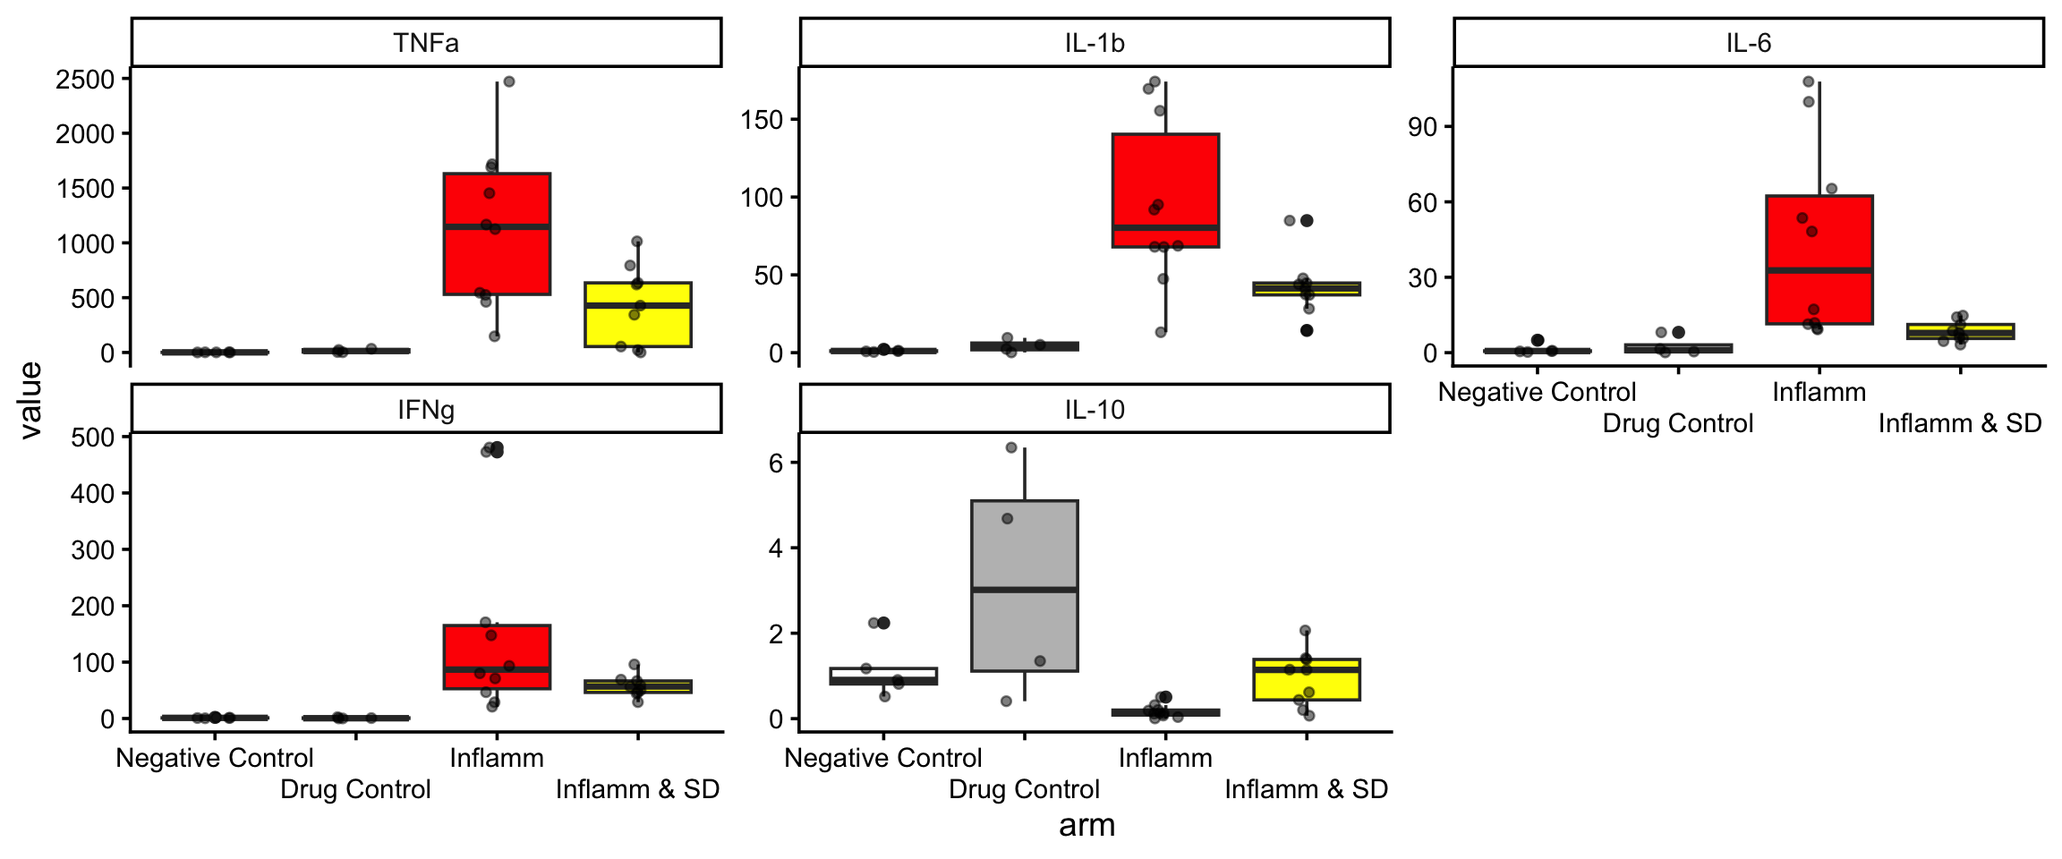
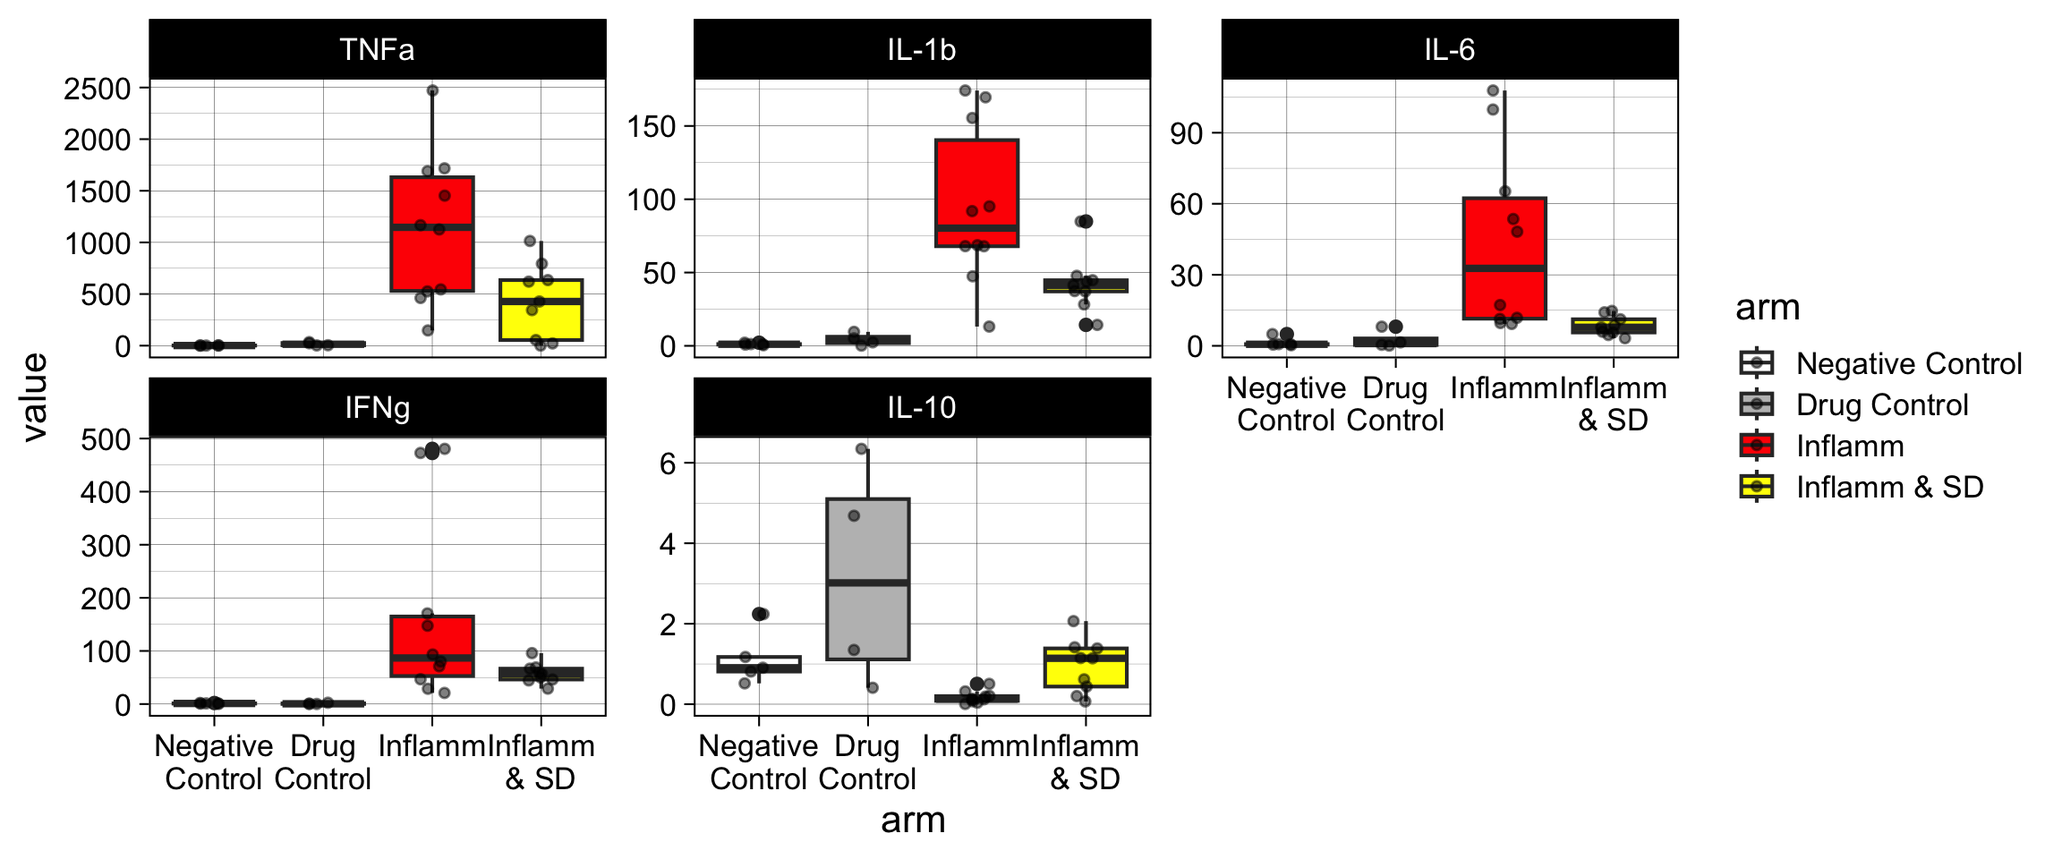
updated LCL plot

diff --git a/SD2301_analysis.html b/SD2301_analysis.html
@@ -128,51 +128,93 @@ The following objects are masked from 'package:stats':
 <div class="cell-output cell-output-stderr">
 <pre><code>here() starts at /Users/peterhiggins/Documents/RCode/SD_2301</code></pre>
 </div>
-<div class="sourceCode cell-code" id="cb7"><pre class="sourceCode r code-with-copy"><code class="sourceCode r"><span id="cb7-1"><a href="#cb7-1" aria-hidden="true" tabindex="-1"></a><span class="fu">library</span>(ggsignif)</span></code><button title="Copy to Clipboard" class="code-copy-button"><i class="bi"></i></button></pre></div>
+<div class="sourceCode cell-code" id="cb7"><pre class="sourceCode r code-with-copy"><code class="sourceCode r"><span id="cb7-1"><a href="#cb7-1" aria-hidden="true" tabindex="-1"></a><span class="fu">library</span>(ggsignif)</span>
+<span id="cb7-2"><a href="#cb7-2" aria-hidden="true" tabindex="-1"></a><span class="fu">library</span>(scales)</span></code><button title="Copy to Clipboard" class="code-copy-button"><i class="bi"></i></button></pre></div>
+<div class="cell-output cell-output-stderr">
+<pre><code>
+Attaching package: 'scales'
+
+The following object is masked from 'package:purrr':
+
+    discard
+
+The following object is masked from 'package:readr':
+
+    col_factor</code></pre>
+</div>
 </div>
 </section>
 <section id="read-in-data" class="level2">
 <h2 class="anchored" data-anchor-id="read-in-data">Read in data</h2>
 <div class="cell">
-<div class="sourceCode cell-code" id="cb8"><pre class="sourceCode r code-with-copy"><code class="sourceCode r"><span id="cb8-1"><a href="#cb8-1" aria-hidden="true" tabindex="-1"></a>df <span class="ot">&lt;-</span> <span class="fu">read_excel</span>(<span class="fu">here</span>(<span class="st">"SD2301_tidy.xlsx"</span>)) <span class="sc">|&gt;</span> </span>
-<span id="cb8-2"><a href="#cb8-2" aria-hidden="true" tabindex="-1"></a>  <span class="fu">select</span>(mice, category, TNF<span class="sc">:</span>STAT3) <span class="sc">|&gt;</span></span>
-<span id="cb8-3"><a href="#cb8-3" aria-hidden="true" tabindex="-1"></a>  <span class="fu">pivot_longer</span>(<span class="at">cols =</span> <span class="sc">!</span><span class="fu">c</span>(mice,category), <span class="at">names_to =</span> <span class="st">"transcript"</span>, <span class="at">values_to =</span> <span class="st">"value"</span>) <span class="sc">|&gt;</span></span>
-<span id="cb8-4"><a href="#cb8-4" aria-hidden="true" tabindex="-1"></a>  <span class="fu">mutate</span>(<span class="at">arm =</span> <span class="fu">case_when</span>(</span>
-<span id="cb8-5"><a href="#cb8-5" aria-hidden="true" tabindex="-1"></a>    category <span class="sc">==</span> <span class="dv">1</span> <span class="sc">~</span> <span class="st">"Negative Control"</span>,</span>
-<span id="cb8-6"><a href="#cb8-6" aria-hidden="true" tabindex="-1"></a>    category <span class="sc">==</span> <span class="dv">2</span> <span class="sc">~</span> <span class="st">"Drug Control"</span>,</span>
-<span id="cb8-7"><a href="#cb8-7" aria-hidden="true" tabindex="-1"></a>    category <span class="sc">==</span> <span class="dv">3</span> <span class="sc">~</span> <span class="st">"Inflamm"</span>,</span>
-<span id="cb8-8"><a href="#cb8-8" aria-hidden="true" tabindex="-1"></a>    category <span class="sc">==</span> <span class="dv">4</span> <span class="sc">~</span> <span class="st">"Inflamm &amp; SD3"</span>,</span>
-<span id="cb8-9"><a href="#cb8-9" aria-hidden="true" tabindex="-1"></a>    category <span class="sc">==</span> <span class="dv">5</span> <span class="sc">~</span> <span class="st">"Inflamm &amp; SD"</span>)) <span class="sc">|&gt;</span> </span>
-<span id="cb8-10"><a href="#cb8-10" aria-hidden="true" tabindex="-1"></a>  <span class="fu">mutate</span>(<span class="at">transcript =</span> <span class="fu">case_when</span>(</span>
-<span id="cb8-11"><a href="#cb8-11" aria-hidden="true" tabindex="-1"></a>    transcript <span class="sc">==</span> <span class="st">"TNF"</span> <span class="sc">~</span> <span class="st">"TNFa"</span>,</span>
-<span id="cb8-12"><a href="#cb8-12" aria-hidden="true" tabindex="-1"></a>    transcript <span class="sc">==</span> <span class="st">"IL1"</span> <span class="sc">~</span> <span class="st">"IL-1b"</span>,</span>
-<span id="cb8-13"><a href="#cb8-13" aria-hidden="true" tabindex="-1"></a>    transcript <span class="sc">==</span> <span class="st">"IL6"</span> <span class="sc">~</span> <span class="st">"IL-6"</span>,</span>
-<span id="cb8-14"><a href="#cb8-14" aria-hidden="true" tabindex="-1"></a>    transcript <span class="sc">==</span> <span class="st">"STAT3"</span> <span class="sc">~</span> <span class="st">"STAT3"</span>,</span>
-<span id="cb8-15"><a href="#cb8-15" aria-hidden="true" tabindex="-1"></a>    transcript <span class="sc">==</span> <span class="st">"TGF"</span> <span class="sc">~</span> <span class="st">"TGFb"</span>,</span>
-<span id="cb8-16"><a href="#cb8-16" aria-hidden="true" tabindex="-1"></a>    transcript <span class="sc">==</span> <span class="st">"INF"</span> <span class="sc">~</span> <span class="st">"IFNg"</span>,</span>
-<span id="cb8-17"><a href="#cb8-17" aria-hidden="true" tabindex="-1"></a>    transcript <span class="sc">==</span> <span class="st">"il10"</span> <span class="sc">~</span> <span class="st">"IL-10"</span>)) <span class="sc">|&gt;</span>  </span>
-<span id="cb8-18"><a href="#cb8-18" aria-hidden="true" tabindex="-1"></a>    <span class="fu">mutate</span>(<span class="at">arm =</span> <span class="fu">ordered</span>(arm, <span class="at">levels =</span> <span class="fu">c</span>(<span class="st">"Negative Control"</span>, <span class="st">"Drug Control"</span>, <span class="st">"Inflamm"</span>, <span class="st">"Inflamm &amp; SD3"</span>, <span class="st">"Inflamm &amp; SD"</span>))) <span class="sc">|&gt;</span> </span>
-<span id="cb8-19"><a href="#cb8-19" aria-hidden="true" tabindex="-1"></a>  <span class="fu">mutate</span>(<span class="at">transcript =</span> <span class="fu">factor</span>(transcript, <span class="at">levels =</span> <span class="fu">c</span>(<span class="st">"TNFa"</span>, <span class="st">"IL-1b"</span>, <span class="st">"IL-6"</span>, <span class="st">"IFNg"</span>, <span class="st">"TGFb"</span>, <span class="st">"STAT3"</span>, <span class="st">'IL-10'</span>))) <span class="sc">|&gt;</span> </span>
-<span id="cb8-20"><a href="#cb8-20" aria-hidden="true" tabindex="-1"></a>  <span class="fu">filter</span>(transcript <span class="sc">!=</span> <span class="st">"TGFb"</span> <span class="sc">&amp;</span> transcript <span class="sc">!=</span> <span class="st">"STAT3"</span>) <span class="sc">|&gt;</span> </span>
-<span id="cb8-21"><a href="#cb8-21" aria-hidden="true" tabindex="-1"></a>  <span class="fu">filter</span>(arm <span class="sc">!=</span> <span class="st">"Inflamm &amp; SD3"</span>) <span class="sc">|&gt;</span></span>
-<span id="cb8-22"><a href="#cb8-22" aria-hidden="true" tabindex="-1"></a>  <span class="fu">filter</span>(<span class="sc">!</span><span class="fu">is.na</span>(value))</span></code><button title="Copy to Clipboard" class="code-copy-button"><i class="bi"></i></button></pre></div>
+<div class="sourceCode cell-code" id="cb9"><pre class="sourceCode r code-with-copy"><code class="sourceCode r"><span id="cb9-1"><a href="#cb9-1" aria-hidden="true" tabindex="-1"></a>df <span class="ot">&lt;-</span> <span class="fu">read_excel</span>(<span class="fu">here</span>(<span class="st">"SD2301_tidy.xlsx"</span>)) <span class="sc">|&gt;</span> </span>
+<span id="cb9-2"><a href="#cb9-2" aria-hidden="true" tabindex="-1"></a>  <span class="fu">select</span>(mice, category, TNF<span class="sc">:</span>STAT3) <span class="sc">|&gt;</span></span>
+<span id="cb9-3"><a href="#cb9-3" aria-hidden="true" tabindex="-1"></a>  <span class="fu">pivot_longer</span>(<span class="at">cols =</span> <span class="sc">!</span><span class="fu">c</span>(mice,category), <span class="at">names_to =</span> <span class="st">"transcript"</span>, <span class="at">values_to =</span> <span class="st">"value"</span>) <span class="sc">|&gt;</span></span>
+<span id="cb9-4"><a href="#cb9-4" aria-hidden="true" tabindex="-1"></a>  <span class="fu">mutate</span>(<span class="at">arm =</span> <span class="fu">case_when</span>(</span>
+<span id="cb9-5"><a href="#cb9-5" aria-hidden="true" tabindex="-1"></a>    category <span class="sc">==</span> <span class="dv">1</span> <span class="sc">~</span> <span class="st">"Negative Control"</span>,</span>
+<span id="cb9-6"><a href="#cb9-6" aria-hidden="true" tabindex="-1"></a>    category <span class="sc">==</span> <span class="dv">2</span> <span class="sc">~</span> <span class="st">"Drug Control"</span>,</span>
+<span id="cb9-7"><a href="#cb9-7" aria-hidden="true" tabindex="-1"></a>    category <span class="sc">==</span> <span class="dv">3</span> <span class="sc">~</span> <span class="st">"Inflamm"</span>,</span>
+<span id="cb9-8"><a href="#cb9-8" aria-hidden="true" tabindex="-1"></a>    category <span class="sc">==</span> <span class="dv">4</span> <span class="sc">~</span> <span class="st">"Inflamm &amp; SD3"</span>,</span>
+<span id="cb9-9"><a href="#cb9-9" aria-hidden="true" tabindex="-1"></a>    category <span class="sc">==</span> <span class="dv">5</span> <span class="sc">~</span> <span class="st">"Inflamm &amp; SD"</span>)) <span class="sc">|&gt;</span> </span>
+<span id="cb9-10"><a href="#cb9-10" aria-hidden="true" tabindex="-1"></a>  <span class="fu">mutate</span>(<span class="at">transcript =</span> <span class="fu">case_when</span>(</span>
+<span id="cb9-11"><a href="#cb9-11" aria-hidden="true" tabindex="-1"></a>    transcript <span class="sc">==</span> <span class="st">"TNF"</span> <span class="sc">~</span> <span class="st">"TNFa"</span>,</span>
+<span id="cb9-12"><a href="#cb9-12" aria-hidden="true" tabindex="-1"></a>    transcript <span class="sc">==</span> <span class="st">"IL1"</span> <span class="sc">~</span> <span class="st">"IL-1b"</span>,</span>
+<span id="cb9-13"><a href="#cb9-13" aria-hidden="true" tabindex="-1"></a>    transcript <span class="sc">==</span> <span class="st">"IL6"</span> <span class="sc">~</span> <span class="st">"IL-6"</span>,</span>
+<span id="cb9-14"><a href="#cb9-14" aria-hidden="true" tabindex="-1"></a>    transcript <span class="sc">==</span> <span class="st">"STAT3"</span> <span class="sc">~</span> <span class="st">"STAT3"</span>,</span>
+<span id="cb9-15"><a href="#cb9-15" aria-hidden="true" tabindex="-1"></a>    transcript <span class="sc">==</span> <span class="st">"TGF"</span> <span class="sc">~</span> <span class="st">"TGFb"</span>,</span>
+<span id="cb9-16"><a href="#cb9-16" aria-hidden="true" tabindex="-1"></a>    transcript <span class="sc">==</span> <span class="st">"INF"</span> <span class="sc">~</span> <span class="st">"IFNg"</span>,</span>
+<span id="cb9-17"><a href="#cb9-17" aria-hidden="true" tabindex="-1"></a>    transcript <span class="sc">==</span> <span class="st">"il10"</span> <span class="sc">~</span> <span class="st">"IL-10"</span>)) <span class="sc">|&gt;</span>  </span>
+<span id="cb9-18"><a href="#cb9-18" aria-hidden="true" tabindex="-1"></a>    <span class="fu">mutate</span>(<span class="at">arm =</span> <span class="fu">ordered</span>(arm, <span class="at">levels =</span> <span class="fu">c</span>(<span class="st">"Negative Control"</span>, <span class="st">"Drug Control"</span>, <span class="st">"Inflamm"</span>, <span class="st">"Inflamm &amp; SD3"</span>, <span class="st">"Inflamm &amp; SD"</span>))) <span class="sc">|&gt;</span> </span>
+<span id="cb9-19"><a href="#cb9-19" aria-hidden="true" tabindex="-1"></a>  <span class="fu">mutate</span>(<span class="at">transcript =</span> <span class="fu">factor</span>(transcript, <span class="at">levels =</span> <span class="fu">c</span>(<span class="st">"TNFa"</span>, <span class="st">"IL-1b"</span>, <span class="st">"IL-6"</span>, <span class="st">"IFNg"</span>, <span class="st">"TGFb"</span>, <span class="st">"STAT3"</span>, <span class="st">'IL-10'</span>))) <span class="sc">|&gt;</span> </span>
+<span id="cb9-20"><a href="#cb9-20" aria-hidden="true" tabindex="-1"></a>  <span class="fu">filter</span>(transcript <span class="sc">!=</span> <span class="st">"TGFb"</span> <span class="sc">&amp;</span> transcript <span class="sc">!=</span> <span class="st">"STAT3"</span>) <span class="sc">|&gt;</span> </span>
+<span id="cb9-21"><a href="#cb9-21" aria-hidden="true" tabindex="-1"></a>  <span class="fu">filter</span>(arm <span class="sc">!=</span> <span class="st">"Inflamm &amp; SD3"</span>) <span class="sc">|&gt;</span></span>
+<span id="cb9-22"><a href="#cb9-22" aria-hidden="true" tabindex="-1"></a>  <span class="fu">filter</span>(<span class="sc">!</span><span class="fu">is.na</span>(value))</span></code><button title="Copy to Clipboard" class="code-copy-button"><i class="bi"></i></button></pre></div>
 </div>
 </section>
 <section id="analysis-code" class="level2">
 <h2 class="anchored" data-anchor-id="analysis-code">Analysis Code</h2>
 <div class="cell">
-<div class="sourceCode cell-code" id="cb9"><pre class="sourceCode r code-with-copy"><code class="sourceCode r"><span id="cb9-1"><a href="#cb9-1" aria-hidden="true" tabindex="-1"></a>plot <span class="ot">&lt;-</span> df <span class="sc">|&gt;</span> </span>
-<span id="cb9-2"><a href="#cb9-2" aria-hidden="true" tabindex="-1"></a>  <span class="fu">filter</span>(arm <span class="sc">!=</span> <span class="st">"Inflammation &amp; SD3"</span>) <span class="sc">|&gt;</span> </span>
-<span id="cb9-3"><a href="#cb9-3" aria-hidden="true" tabindex="-1"></a>  <span class="fu">ggplot</span>(<span class="fu">aes</span>(<span class="at">x =</span> arm, <span class="at">y =</span> value, <span class="at">fill =</span> arm)) <span class="sc">+</span></span>
-<span id="cb9-4"><a href="#cb9-4" aria-hidden="true" tabindex="-1"></a>  <span class="fu">geom_boxplot</span>() <span class="sc">+</span></span>
-<span id="cb9-5"><a href="#cb9-5" aria-hidden="true" tabindex="-1"></a>  <span class="fu">geom_point</span>(<span class="at">position =</span> <span class="fu">position_jitterdodge</span>(), <span class="at">size =</span> <span class="fl">1.5</span>, <span class="at">alpha =</span> <span class="fl">0.5</span>) <span class="sc">+</span></span>
-<span id="cb9-6"><a href="#cb9-6" aria-hidden="true" tabindex="-1"></a>  <span class="fu">facet_wrap</span>(<span class="sc">~</span>transcript, <span class="at">scales =</span> <span class="st">"free_y"</span>) <span class="sc">+</span></span>
-<span id="cb9-7"><a href="#cb9-7" aria-hidden="true" tabindex="-1"></a>  <span class="fu">scale_fill_manual</span>(<span class="at">values =</span> <span class="fu">c</span>(<span class="st">"Negative Control"</span> <span class="ot">=</span> <span class="st">"white"</span>, <span class="st">"Drug Control"</span> <span class="ot">=</span> <span class="st">"gray"</span>, <span class="st">"Inflamm"</span> <span class="ot">=</span> <span class="st">"red"</span>, <span class="st">"Inflamm &amp; SD"</span> <span class="ot">=</span> <span class="st">"yellow"</span>)) <span class="sc">+</span></span>
-<span id="cb9-8"><a href="#cb9-8" aria-hidden="true" tabindex="-1"></a>    <span class="fu">theme_classic</span>(<span class="at">base_size =</span> <span class="dv">14</span>) <span class="sc">+</span></span>
-<span id="cb9-9"><a href="#cb9-9" aria-hidden="true" tabindex="-1"></a>  <span class="fu">theme</span>(<span class="at">legend.position =</span> <span class="st">"none"</span>) <span class="sc">+</span></span>
-<span id="cb9-10"><a href="#cb9-10" aria-hidden="true" tabindex="-1"></a>  <span class="fu">scale_x_discrete</span>(<span class="at">guide =</span> <span class="fu">guide_axis</span>(<span class="at">n.dodge =</span> <span class="dv">2</span>))</span>
-<span id="cb9-11"><a href="#cb9-11" aria-hidden="true" tabindex="-1"></a></span>
-<span id="cb9-12"><a href="#cb9-12" aria-hidden="true" tabindex="-1"></a>plot</span></code><button title="Copy to Clipboard" class="code-copy-button"><i class="bi"></i></button></pre></div>
+<div class="sourceCode cell-code" id="cb10"><pre class="sourceCode r code-with-copy"><code class="sourceCode r"><span id="cb10-1"><a href="#cb10-1" aria-hidden="true" tabindex="-1"></a>plot <span class="ot">&lt;-</span> df <span class="sc">|&gt;</span> </span>
+<span id="cb10-2"><a href="#cb10-2" aria-hidden="true" tabindex="-1"></a>  <span class="fu">filter</span>(arm <span class="sc">!=</span> <span class="st">"Inflammation &amp; SD3"</span>) <span class="sc">|&gt;</span> </span>
+<span id="cb10-3"><a href="#cb10-3" aria-hidden="true" tabindex="-1"></a>  <span class="fu">ggplot</span>(<span class="fu">aes</span>(<span class="at">x =</span> arm, <span class="at">y =</span> value, <span class="at">fill =</span> arm)) <span class="sc">+</span></span>
+<span id="cb10-4"><a href="#cb10-4" aria-hidden="true" tabindex="-1"></a>  <span class="fu">geom_boxplot</span>() <span class="sc">+</span></span>
+<span id="cb10-5"><a href="#cb10-5" aria-hidden="true" tabindex="-1"></a>  <span class="fu">geom_point</span>(<span class="at">position =</span> <span class="fu">position_jitterdodge</span>(), <span class="at">size =</span> <span class="fl">1.5</span>, <span class="at">alpha =</span> <span class="fl">0.5</span>) <span class="sc">+</span></span>
+<span id="cb10-6"><a href="#cb10-6" aria-hidden="true" tabindex="-1"></a>  <span class="fu">facet_wrap</span>(<span class="sc">~</span>transcript, <span class="at">scales =</span> <span class="st">"free_y"</span>) <span class="sc">+</span></span>
+<span id="cb10-7"><a href="#cb10-7" aria-hidden="true" tabindex="-1"></a>  <span class="fu">scale_fill_manual</span>(<span class="at">values =</span> <span class="fu">c</span>(<span class="st">"Negative Control"</span> <span class="ot">=</span> <span class="st">"white"</span>, <span class="st">"Drug Control"</span> <span class="ot">=</span> <span class="st">"gray"</span>, <span class="st">"Inflamm"</span> <span class="ot">=</span> <span class="st">"red"</span>, <span class="st">"Inflamm &amp; SD"</span> <span class="ot">=</span> <span class="st">"yellow"</span>)) <span class="sc">+</span></span>
+<span id="cb10-8"><a href="#cb10-8" aria-hidden="true" tabindex="-1"></a>    ggsignif<span class="sc">::</span><span class="fu">geom_signif</span>(<span class="at">comparisons =</span> <span class="fu">list</span>(</span>
+<span id="cb10-9"><a href="#cb10-9" aria-hidden="true" tabindex="-1"></a>    <span class="fu">c</span>(<span class="dv">1</span>,<span class="dv">2</span>), <span class="fu">c</span>(<span class="dv">1</span>,<span class="dv">3</span>), <span class="fu">c</span>(<span class="dv">3</span>,<span class="dv">4</span>), <span class="fu">c</span>(<span class="dv">3</span>,<span class="dv">5</span>), <span class="fu">c</span>(<span class="dv">4</span>,<span class="dv">5</span>), <span class="fu">c</span>(<span class="dv">1</span>,<span class="dv">4</span>),</span>
+<span id="cb10-10"><a href="#cb10-10" aria-hidden="true" tabindex="-1"></a>    <span class="fu">c</span>(<span class="dv">1</span>,<span class="dv">5</span>)),</span>
+<span id="cb10-11"><a href="#cb10-11" aria-hidden="true" tabindex="-1"></a>    <span class="at">test =</span> <span class="st">"t.test"</span>,</span>
+<span id="cb10-12"><a href="#cb10-12" aria-hidden="true" tabindex="-1"></a>    <span class="at">step_increase =</span> <span class="fl">0.12</span>) <span class="sc">+</span></span>
+<span id="cb10-13"><a href="#cb10-13" aria-hidden="true" tabindex="-1"></a>  <span class="fu">scale_x_discrete</span>(<span class="at">labels =</span> <span class="fu">label_wrap</span>(<span class="dv">6</span>)) <span class="sc">+</span></span>
+<span id="cb10-14"><a href="#cb10-14" aria-hidden="true" tabindex="-1"></a>  <span class="fu">theme_linedraw</span>(<span class="at">base_size =</span> <span class="dv">16</span>, <span class="at">base_family =</span> <span class="st">"Arial"</span>)</span>
+<span id="cb10-15"><a href="#cb10-15" aria-hidden="true" tabindex="-1"></a></span>
+<span id="cb10-16"><a href="#cb10-16" aria-hidden="true" tabindex="-1"></a>plot</span></code><button title="Copy to Clipboard" class="code-copy-button"><i class="bi"></i></button></pre></div>
+<div class="cell-output cell-output-stderr">
+<pre><code>Warning: Computation failed in `stat_signif()`.
+Caused by error in `t.test.default()`:
+! not enough 'y' observations</code></pre>
+</div>
+<div class="cell-output cell-output-stderr">
+<pre><code>Warning: Computation failed in `stat_signif()`.
+Caused by error in `t.test.default()`:
+! not enough 'y' observations</code></pre>
+</div>
+<div class="cell-output cell-output-stderr">
+<pre><code>Warning: Computation failed in `stat_signif()`.
+Caused by error in `t.test.default()`:
+! not enough 'y' observations</code></pre>
+</div>
+<div class="cell-output cell-output-stderr">
+<pre><code>Warning: Computation failed in `stat_signif()`.
+Caused by error in `t.test.default()`:
+! not enough 'y' observations</code></pre>
+</div>
+<div class="cell-output cell-output-stderr">
+<pre><code>Warning: Computation failed in `stat_signif()`.
+Caused by error in `t.test.default()`:
+! not enough 'y' observations</code></pre>
+</div>
 <div class="cell-output-display">
 <div>
 <figure class="figure">
@@ -180,7 +222,32 @@ The following objects are masked from 'package:stats':
 </figure>
 </div>
 </div>
-<div class="sourceCode cell-code" id="cb10"><pre class="sourceCode r code-with-copy"><code class="sourceCode r"><span id="cb10-1"><a href="#cb10-1" aria-hidden="true" tabindex="-1"></a><span class="fu">ggsave</span>(plot, <span class="at">filename =</span> <span class="fu">here</span>(<span class="st">"SD2301_plot.png"</span>), <span class="at">width =</span> <span class="dv">12</span>, <span class="at">height =</span> <span class="dv">8</span>, <span class="at">dpi =</span> <span class="dv">300</span>)</span></code><button title="Copy to Clipboard" class="code-copy-button"><i class="bi"></i></button></pre></div>
+<div class="sourceCode cell-code" id="cb16"><pre class="sourceCode r code-with-copy"><code class="sourceCode r"><span id="cb16-1"><a href="#cb16-1" aria-hidden="true" tabindex="-1"></a><span class="fu">ggsave</span>(plot, <span class="at">filename =</span> <span class="fu">here</span>(<span class="st">"SD2301_plot.png"</span>), <span class="at">width =</span> <span class="dv">12</span>, <span class="at">height =</span> <span class="dv">8</span>, <span class="at">dpi =</span> <span class="dv">300</span>)</span></code><button title="Copy to Clipboard" class="code-copy-button"><i class="bi"></i></button></pre></div>
+<div class="cell-output cell-output-stderr">
+<pre><code>Warning: Computation failed in `stat_signif()`.
+Caused by error in `t.test.default()`:
+! not enough 'y' observations</code></pre>
+</div>
+<div class="cell-output cell-output-stderr">
+<pre><code>Warning: Computation failed in `stat_signif()`.
+Caused by error in `t.test.default()`:
+! not enough 'y' observations</code></pre>
+</div>
+<div class="cell-output cell-output-stderr">
+<pre><code>Warning: Computation failed in `stat_signif()`.
+Caused by error in `t.test.default()`:
+! not enough 'y' observations</code></pre>
+</div>
+<div class="cell-output cell-output-stderr">
+<pre><code>Warning: Computation failed in `stat_signif()`.
+Caused by error in `t.test.default()`:
+! not enough 'y' observations</code></pre>
+</div>
+<div class="cell-output cell-output-stderr">
+<pre><code>Warning: Computation failed in `stat_signif()`.
+Caused by error in `t.test.default()`:
+! not enough 'y' observations</code></pre>
+</div>
 </div>
 </section>
 
